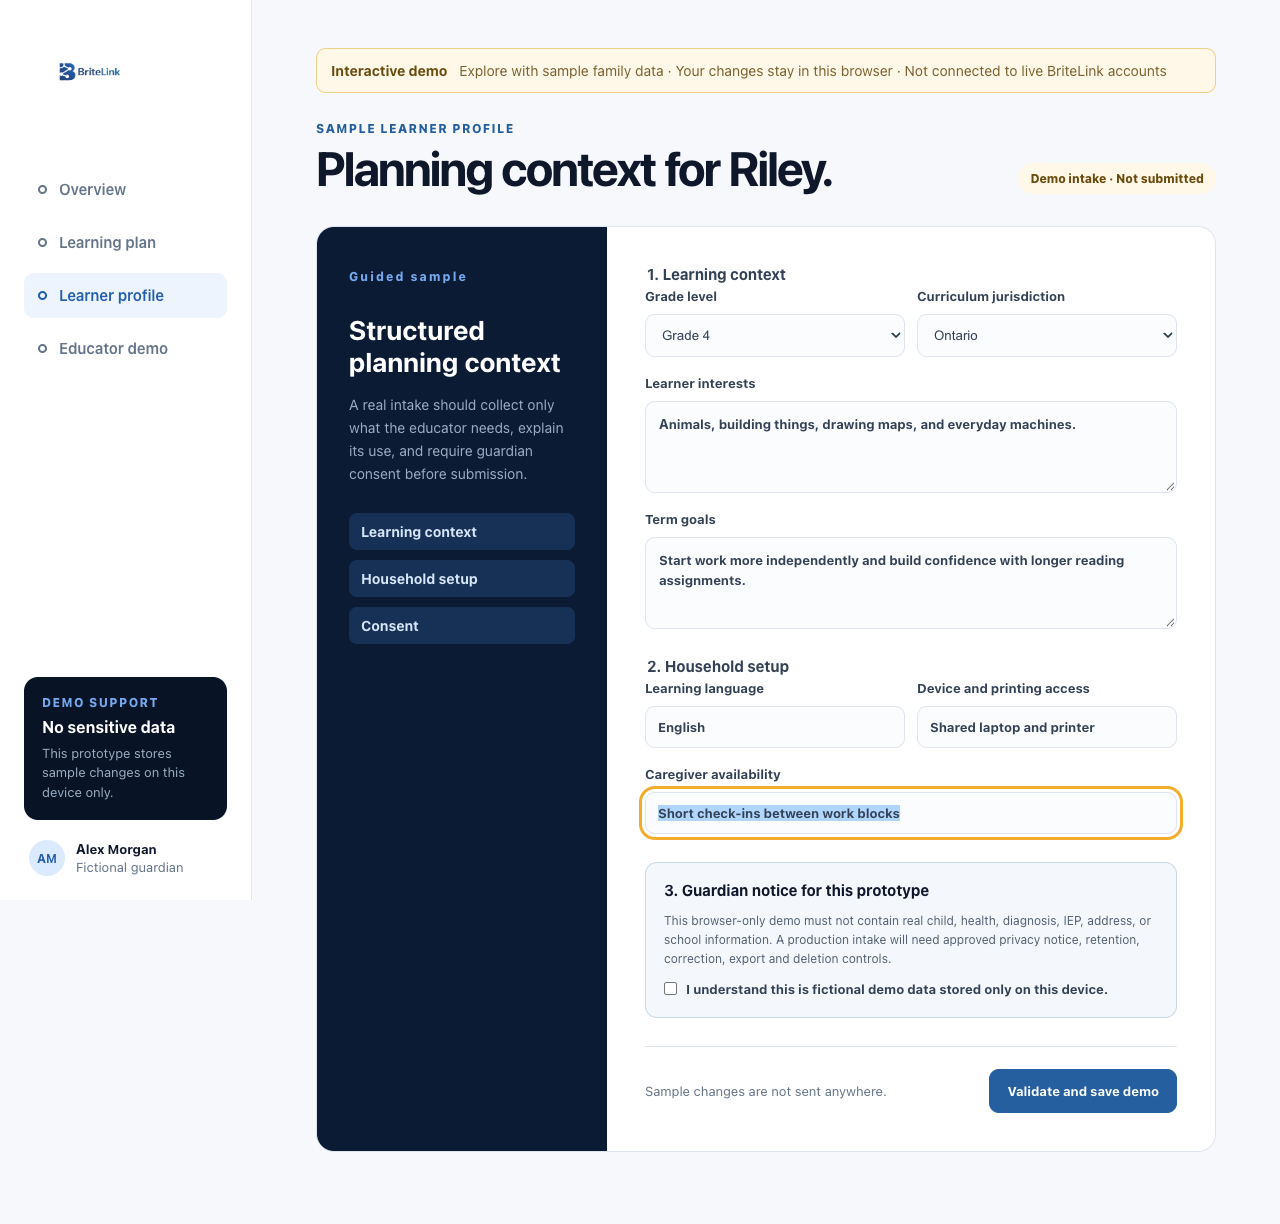
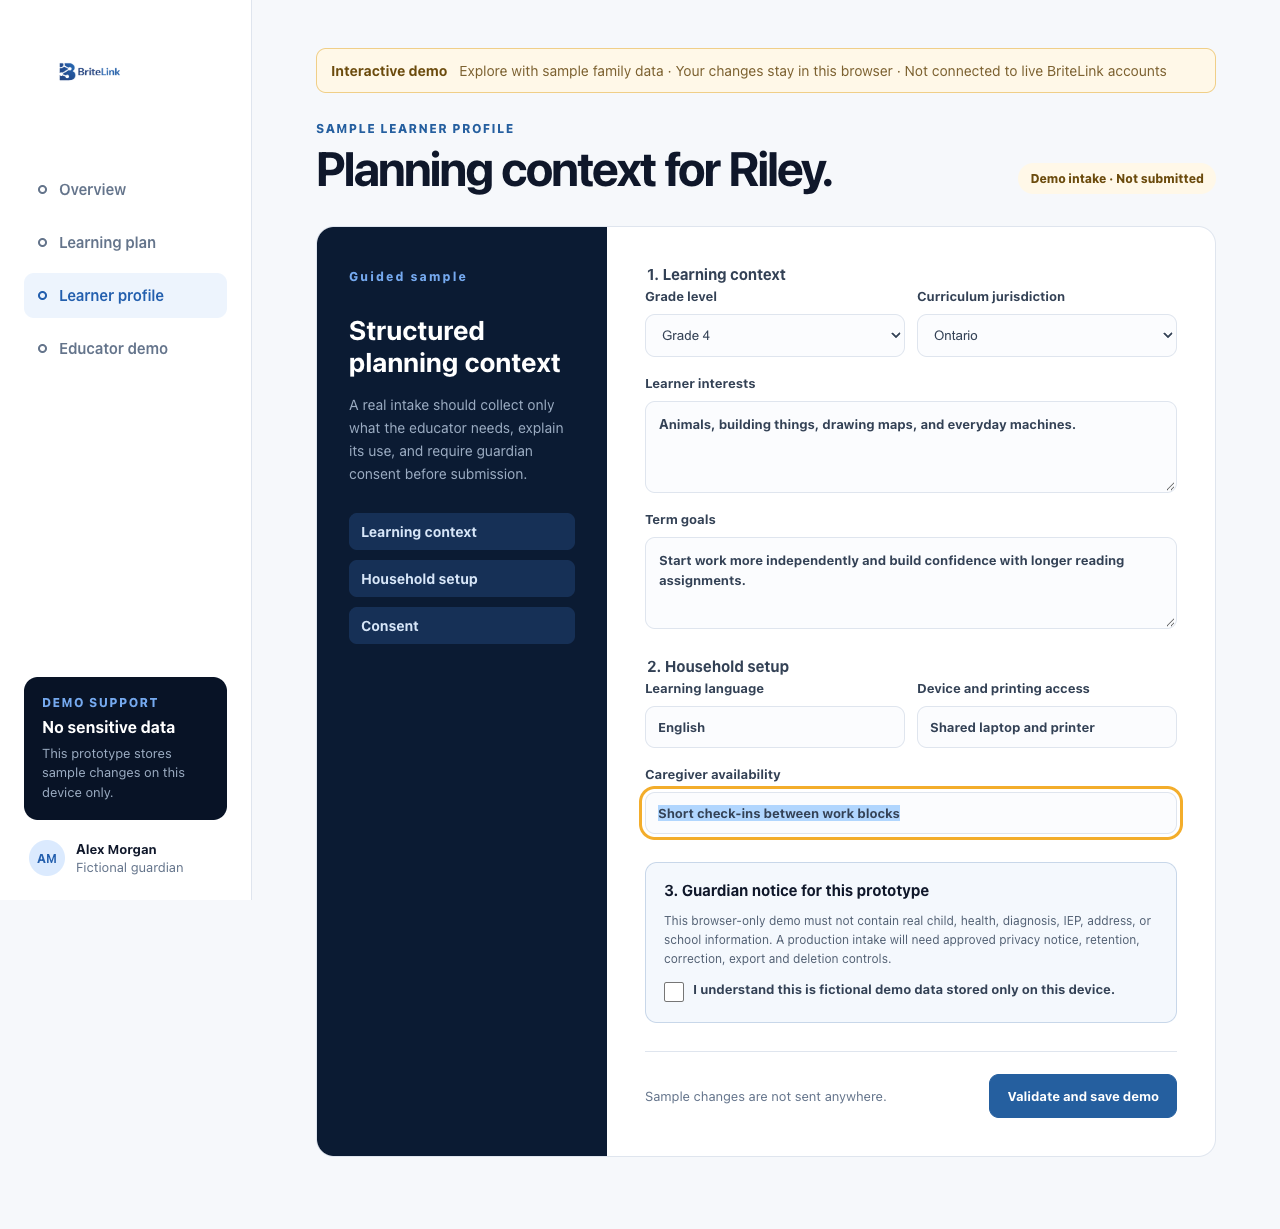
fix(a11y): give the consent control a real touch target
Measured across 375 / 768 / 1024 / 1440px: every interactive control had a
finger-sized target except the consent checkbox, whose label was 19px tall with
a 13px box.

That is the worst possible element to get wrong. It is the legal consent
control -- the one checkbox a guardian must hit reliably, on a phone, to agree
to the privacy notice. Both Apple (44pt) and Google (48dp) set a minimum well
above 19px, and a mis-tap here is not a cosmetic problem.

The label now carries min-height:44px with a padded, rounded hit area that
keeps the visible checkbox small, plus a hover state so the enlarged target is
discoverable rather than invisible. Measured after the change: 44px on desktop,
58px on mobile, with no horizontal overflow introduced at any width.

Also adds min 20x20 to the checkbox itself, which is comfortably above the
13px default without looking oversized.

Verified: 174 tests, accessibility audit 12/12 with zero violations, and the
authenticated parent journey audit (which exercises this consent control) passes.

diff --git a/src/styles.css b/src/styles.css
@@ -8,7 +8,7 @@
 @media(max-width:900px){.shell{grid-template-columns:1fr}.sidebar{position:static;height:auto;padding:18px 20px;display:grid;grid-template-columns:auto 1fr}.logo{margin:0;width:76px}.sidebar nav{display:flex;justify-content:flex-end;gap:3px}.nav{width:auto;font-size:11px;padding:10px 8px;gap:6px}.nav i{width:7px;height:7px}.side-end{display:none}.shell>main{padding:28px 20px 56px}.hero{padding:36px 28px;min-height:390px}.hero img{opacity:.22;right:-20px}.cards{grid-template-columns:1fr}.plan{grid-template-columns:1fr}.weeks{display:flex;overflow:auto;gap:8px}.weeks>.eyebrow{display:none}.weeks button{min-width:150px;border:1px solid var(--line);border-radius:10px}.form-shell{grid-template-columns:1fr}.form-shell>aside{padding:28px}.choices{grid-template-columns:1fr}}@media(max-width:560px){.header{align-items:flex-start}.header h1{font-size:31px}.header .ghost{display:none}.hero{padding:30px 24px}.hero h2{font-size:30px}.hero img{width:220px}.schedule{padding:20px 14px}.schedule>header{padding:0 6px 18px}.days{gap:4px}.lessons button{grid-template-columns:42px 8px 1fr;padding:13px 10px}.lessons em{display:none}.form-shell form{padding:26px 20px}.complete{display:none}}@media(max-width:420px){.nav{font-size:10px;padding:9px 6px}.logo{width:64px}.sidebar{padding-inline:14px}.nav i{display:none}}@media print{.sidebar,.header,.weeks,.days,.skip-link,.demo-banner,.next-up{display:none}.shell{display:block}.shell>main{padding:0}.schedule{border:0}}
 
 /* Product-integrity pass */
-.demo-banner{max-width:1180px;margin:0 auto 28px;padding:11px 14px;border:1px solid #f0cf88;border-radius:10px;background:#fff8e8;color:#6b4b0d;display:flex;gap:12px;align-items:center;font-size:12px}.demo-banner strong{white-space:nowrap}.demo-banner span{color:#7c6130}.support p{margin:0;color:#9aabc1;font-size:12px;line-height:1.5}.ghost:disabled{cursor:not-allowed;opacity:.72}.progress{display:grid;grid-template-columns:1fr auto}.progress:before{display:none}.progress progress{width:100%;height:8px;accent-color:#4e95ee}.lesson-workspace{display:grid;grid-template-columns:minmax(360px,.9fr) minmax(340px,1.1fr);gap:16px}.lessons button.selected{border-color:#3b7dd8;box-shadow:0 0 0 2px #dbeafe}.lesson-status{justify-self:end;display:inline-flex;padding:5px 8px;border-radius:99px;background:#eef2f7;color:#536174;font-size:10px;font-weight:800;white-space:nowrap}.lesson-status.in_progress{background:#e8f1ff;color:#235fae}.lesson-status.paused{background:#fff5db;color:#795711}.lesson-status.completed{background:#e4f6ed;color:#247154}.lesson-status.skipped{background:#f3edf9;color:#6e4f8e}.lesson-detail{border:1px solid var(--line);border-radius:12px;background:#fbfcfe;padding:20px}.lesson-detail h3{margin:7px 0 10px;font-size:19px}.lesson-detail p,.lesson-detail li{color:#536174;font-size:12px;line-height:1.55}.lesson-detail ol{padding-left:20px}.status-actions{display:grid;grid-template-columns:repeat(4,1fr);gap:7px;margin:18px 0}.status-actions button{border:1px solid var(--line);background:#fff;border-radius:8px;padding:9px 5px;color:#536174;font-size:11px;font-weight:700}.status-actions button[aria-pressed="true"]{border-color:#3b7dd8;background:#edf4fd;color:#235fae}.note-field{display:block}.note-field textarea{min-height:70px}.save-hint{display:block;margin-top:8px;color:#64748b;font-size:11px}.form-row{display:grid;grid-template-columns:1fr 1fr;gap:12px}.form-shell input,.form-shell select{display:block;width:100%;margin-top:10px;border:1px solid var(--line);border-radius:10px;padding:12px;color:#334155;background:#fbfcfe}.form-shell [aria-invalid="true"]{border-color:#c84444;background:#fff8f8}.error{display:block;margin-top:7px;color:#b3261e;font-size:11px}.consent-copy{padding:18px;border:1px solid #c8d7e9;border-radius:12px;background:#f4f8fd}.consent-copy h3{margin:0 0 8px;font-size:15px}.consent-copy p{color:#536174;font-size:12px;line-height:1.55}.consent-copy label{display:flex;gap:9px;align-items:flex-start;line-height:1.45}.consent-copy input{width:auto;margin:2px 0 0}.steps i:last-child{background:#2b405f}.complete{background:#fff8e8;color:#6b4b0d}
+.demo-banner{max-width:1180px;margin:0 auto 28px;padding:11px 14px;border:1px solid #f0cf88;border-radius:10px;background:#fff8e8;color:#6b4b0d;display:flex;gap:12px;align-items:center;font-size:12px}.demo-banner strong{white-space:nowrap}.demo-banner span{color:#7c6130}.support p{margin:0;color:#9aabc1;font-size:12px;line-height:1.5}.ghost:disabled{cursor:not-allowed;opacity:.72}.progress{display:grid;grid-template-columns:1fr auto}.progress:before{display:none}.progress progress{width:100%;height:8px;accent-color:#4e95ee}.lesson-workspace{display:grid;grid-template-columns:minmax(360px,.9fr) minmax(340px,1.1fr);gap:16px}.lessons button.selected{border-color:#3b7dd8;box-shadow:0 0 0 2px #dbeafe}.lesson-status{justify-self:end;display:inline-flex;padding:5px 8px;border-radius:99px;background:#eef2f7;color:#536174;font-size:10px;font-weight:800;white-space:nowrap}.lesson-status.in_progress{background:#e8f1ff;color:#235fae}.lesson-status.paused{background:#fff5db;color:#795711}.lesson-status.completed{background:#e4f6ed;color:#247154}.lesson-status.skipped{background:#f3edf9;color:#6e4f8e}.lesson-detail{border:1px solid var(--line);border-radius:12px;background:#fbfcfe;padding:20px}.lesson-detail h3{margin:7px 0 10px;font-size:19px}.lesson-detail p,.lesson-detail li{color:#536174;font-size:12px;line-height:1.55}.lesson-detail ol{padding-left:20px}.status-actions{display:grid;grid-template-columns:repeat(4,1fr);gap:7px;margin:18px 0}.status-actions button{border:1px solid var(--line);background:#fff;border-radius:8px;padding:9px 5px;color:#536174;font-size:11px;font-weight:700}.status-actions button[aria-pressed="true"]{border-color:#3b7dd8;background:#edf4fd;color:#235fae}.note-field{display:block}.note-field textarea{min-height:70px}.save-hint{display:block;margin-top:8px;color:#64748b;font-size:11px}.form-row{display:grid;grid-template-columns:1fr 1fr;gap:12px}.form-shell input,.form-shell select{display:block;width:100%;margin-top:10px;border:1px solid var(--line);border-radius:10px;padding:12px;color:#334155;background:#fbfcfe}.form-shell [aria-invalid="true"]{border-color:#c84444;background:#fff8f8}.error{display:block;margin-top:7px;color:#b3261e;font-size:11px}.consent-copy{padding:18px;border:1px solid #c8d7e9;border-radius:12px;background:#f4f8fd}.consent-copy h3{margin:0 0 8px;font-size:15px}.consent-copy p{color:#536174;font-size:12px;line-height:1.55}.consent-copy label{display:flex;gap:9px;align-items:flex-start;line-height:1.45;min-height:44px;padding:10px 12px;margin:-10px -12px;border-radius:8px;cursor:pointer}.consent-copy label:hover{background:#eaf2fc}.consent-copy input{width:auto;margin:2px 0 0;min-height:20px;min-width:20px}.steps i:last-child{background:#2b405f}.complete{background:#fff8e8;color:#6b4b0d}
 @media(max-width:1350px){.lesson-workspace{grid-template-columns:1fr}.lesson-detail{margin-top:4px}}@media(max-width:900px){.demo-banner{margin-bottom:22px}.demo-banner span{line-height:1.4}.form-row{grid-template-columns:1fr}}@media(max-width:560px){.demo-banner{align-items:flex-start;flex-direction:column;gap:4px}.lesson-status{grid-column:3}.lesson-detail{padding:16px}.status-actions{grid-template-columns:1fr 1fr}.progress{grid-template-columns:1fr auto}.form-shell form>footer{align-items:flex-start;flex-direction:column}.form-shell form>footer .primary{width:100%}}
 
 .ops-grid{max-width:1180px;margin:auto;display:grid;grid-template-columns:1.15fr .85fr;gap:18px}.ops-grid>section{border:1px solid var(--line);border-radius:16px;background:#fff;padding:26px}.case-top{display:flex;align-items:flex-start;justify-content:space-between;gap:18px}.case-top h2,.ops-grid h2{margin:8px 0;font-size:23px}.case-top p,.ops-grid>section>p{color:#64748b;font-size:13px;line-height:1.55}.case-status{padding:7px 10px;border-radius:99px;background:#edf4fd;color:#235fae;font-size:11px;font-weight:800;text-transform:capitalize}.case-card dl{display:grid;grid-template-columns:repeat(3,1fr);gap:10px;margin:24px 0}.case-card dl div{padding:13px;background:#f7f9fc;border-radius:10px}.case-card dt{color:#7a899c;font-size:10px;font-weight:800;text-transform:uppercase;letter-spacing:.08em}.case-card dd{margin:5px 0 0;color:#334155;font-size:12px;font-weight:700;line-height:1.4}.case-card h3{font-size:13px}.transition-actions{display:flex;flex-wrap:wrap;gap:8px;margin-bottom:15px}.transition-actions button{border:1px solid #b9cbe2;background:#f4f8fd;color:#235fae;padding:9px 11px;border-radius:8px;font-size:11px;font-weight:800;text-transform:capitalize}.review-card{display:grid;align-content:start;gap:12px}.review-card label{padding:11px;border:1px solid var(--line);border-radius:9px;color:#45566c;font-size:13px}.review-card input{accent-color:#3b7dd8}.review-card .primary,.message-card .primary{justify-self:start}.message-card label{display:block;color:#334155;font-size:13px;font-weight:700}.message-card textarea{display:block;width:100%;min-height:80px;margin:8px 0 12px;border:1px solid var(--line);border-radius:9px;padding:11px}.thread{display:grid;gap:8px;max-height:190px;overflow:auto;margin:16px 0}.thread p{margin:0;padding:11px;background:#f5f8fc;border-radius:9px;color:#536174;font-size:12px}.thread strong{display:block;color:#235fae;font-size:10px;text-transform:uppercase;letter-spacing:.08em;margin-bottom:4px}.thread .empty{color:#94a3b8}.audit-card ol{list-style:none;padding:0;margin:15px 0 0;display:grid;gap:8px}.audit-card li{padding:10px 0;border-bottom:1px solid #edf0f4;display:flex;justify-content:space-between;gap:12px}.audit-card li strong{font-size:12px}.audit-card li span{color:#8a98aa;font-size:10px}@media(max-width:1100px){.ops-grid{grid-template-columns:1fr}.case-card dl{grid-template-columns:1fr 1fr}}@media(max-width:560px){.case-top{flex-direction:column}.case-card dl{grid-template-columns:1fr}.ops-grid>section{padding:20px}.transition-actions button{flex:1}.audit-card li{align-items:flex-start;flex-direction:column}}
